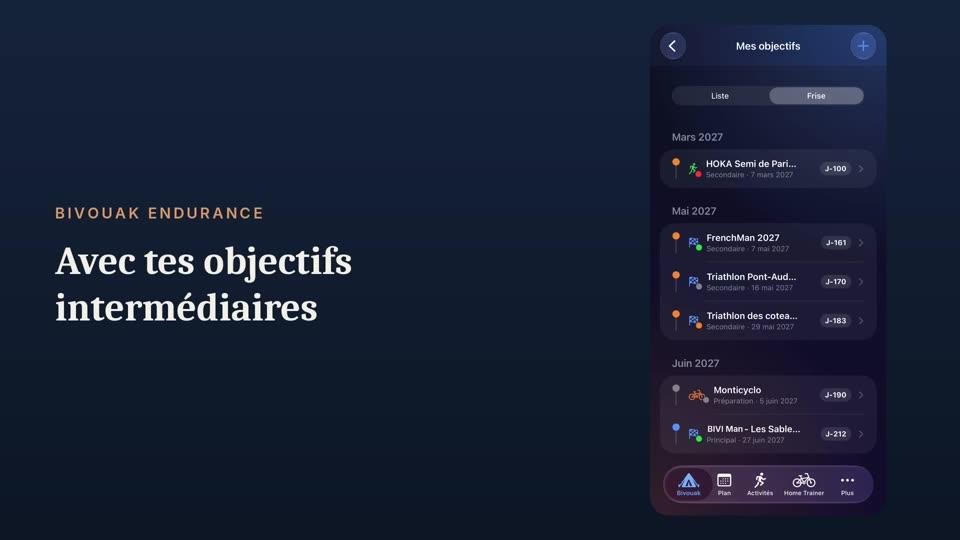
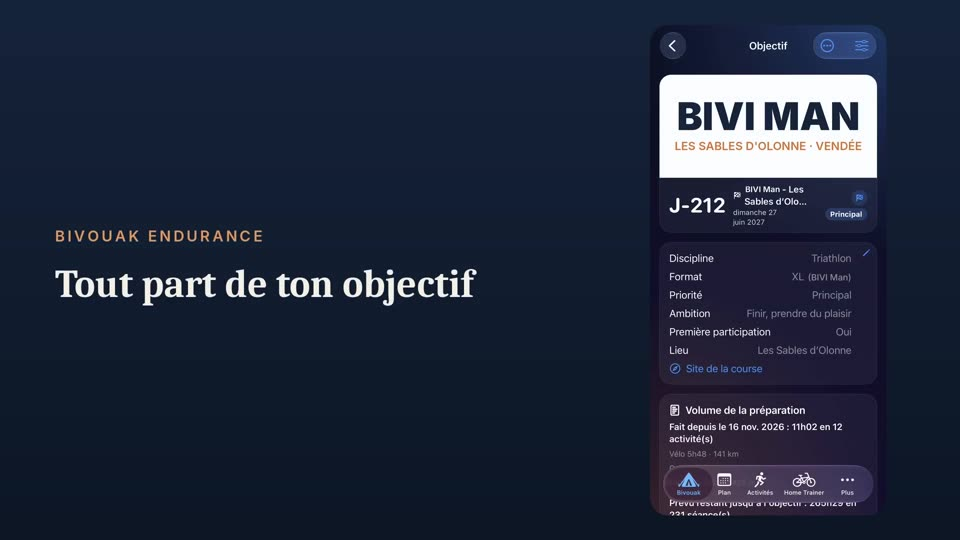
Add files via upload

Changed region(s): [[0.6875, 0.0593, 0.9375, 0.9778], [0.0625, 0.3852, 0.5, 0.5926], [0.8438, 0.7111, 0.9062, 0.7407]]

diff --git a/index.html b/index.html
@@ -16,7 +16,7 @@
 <ul class="sports" aria-label="Natation, vélo, course à pied"><li><svg viewBox="0 0 48 48" width="34" height="34" fill="none" stroke="currentColor" stroke-width="2.4" stroke-linecap="round" stroke-linejoin="round" aria-hidden="true"><circle cx="33" cy="13" r="3.2"/><path d="M8 24l9-5 7 4 5-6"/><path d="M4 33c3 0 3-2.4 6-2.4s3 2.4 6 2.4 3-2.4 6-2.4 3 2.4 6 2.4 3-2.4 6-2.4 3 2.4 6 2.4"/><path d="M4 41c3 0 3-2.4 6-2.4s3 2.4 6 2.4 3-2.4 6-2.4 3 2.4 6 2.4 3-2.4 6-2.4 3 2.4 6 2.4"/></svg><span>Nager</span></li><li><svg viewBox="0 0 48 48" width="34" height="34" fill="none" stroke="currentColor" stroke-width="2.4" stroke-linecap="round" stroke-linejoin="round" aria-hidden="true"><circle cx="11" cy="31" r="7.5"/><circle cx="37" cy="31" r="7.5"/><path d="M11 31l8-14h11l7 14M19 17l7 14h-15M27 11h6"/></svg><span>Pédaler</span></li><li><svg viewBox="0 0 48 48" width="34" height="34" fill="none" stroke="currentColor" stroke-width="2.4" stroke-linecap="round" stroke-linejoin="round" aria-hidden="true"><circle cx="29" cy="9" r="3.2"/><path d="M26 15l-7 7 7 5-3 10M26 15l7 7 7 1M19 22l-8 2M26 27l8 5v8"/></svg><span>Courir</span></li></ul>
 <p class="eyebrow big">Application iPhone pour les sports d’endurance</p>
 <h1>Ton objectif, ta séance, ton jour J.</h1>
-<div class="vmob"><button class="vcard vopen" type="button" aria-haspopup="dialog"><span class="vthumb"><img src="img/poster-paysage.jpg" alt="" width="480" height="270" loading="lazy"><span class="vplay" aria-hidden="true"><svg viewBox="0 0 24 24" width="34" height="34" fill="currentColor"><path d="M8 5.5v13l11-6.5z"/></svg></span></span><span class="vlabel"><strong>Démarrer la vidéo</strong><small>1 minute : ton objectif, ton plan, ton matériel</small></span></button></div>
+<div class="vmob"><button class="vcard vopen" type="button" aria-haspopup="dialog"><span class="vthumb"><img src="img/poster-portrait.jpg" alt="" width="270" height="480" loading="lazy"><span class="vplay" aria-hidden="true"><svg viewBox="0 0 24 24" width="34" height="34" fill="currentColor"><path d="M8 5.5v13l11-6.5z"/></svg></span></span><span class="vlabel"><strong>Démarrer la vidéo</strong><small>1 minute : ton objectif, ton plan, ton matériel</small></span></button></div>
 <p class="lead">Prépare ton objectif d’endurance : un plan, ta séance du jour et ta logistique de course, sans compte ni abonnement. Pour la course à pied, le trail, le vélo, la natation et le triathlon, du premier dossard jusqu’à l’Ironman.</p>
 <ul class="chips"><li>Course à pied</li><li>Trail</li><li>Vélo</li><li>Natation</li><li>Triathlon</li></ul>
 <div class="cta"><a class="store" href="#" aria-disabled="true" title="Bientôt sur l’App Store"><svg viewBox="0 0 24 24" width="26" height="26" fill="currentColor"><path d="M16.4 12.6c0-2.3 1.9-3.4 2-3.5-1.1-1.6-2.8-1.8-3.4-1.8-1.4-.15-2.8.85-3.5.85s-1.8-.8-3-.8c-1.5 0-3 .9-3.800 2.300-1.600 2.800-.4 7 1.200 9.300.8 1.100 1.700 2.400 2.900 2.300 1.200 0 1.600-.7 3-.7s1.800.7 3 .7 2-1.100 2.800-2.200c.9-1.300 1.200-2.500 1.300-2.600-.1 0-2.500-1-2.500-3.800zM14.100 5.800c.6-.8 1.100-1.900.9-3-.9.04-2.100.6-2.700 1.400-.6.700-1.100 1.800-1 2.900 1 .1 2.100-.5 2.800-1.300z"/></svg><span><small>Bientôt sur l’</small>App Store</span></a><a class="ghost" href="fonctionnalites.html">Découvrir</a><a class="ghost beta" href="beta.html">Devenir bêta-testeur</a></div>

diff --git a/style.css b/style.css
@@ -91,6 +91,10 @@ ul.ticks{list-style:none;padding:0;margin:0;columns:2 340px;column-gap:34px}ul.t
 .vclose{position:absolute;top:10px;right:10px;width:38px;height:38px;border-radius:50%;border:1px solid rgba(255,255,255,.4);background:rgba(13,22,38,.75);color:#fff;font-size:18px;cursor:pointer}
 .vend{position:absolute;left:0;right:0;bottom:62px;display:flex;gap:12px;justify-content:center;align-items:center;flex-wrap:wrap}.vend[hidden]{display:none}
 .vend button{background:var(--accent);border-color:var(--accent);padding:10px 20px;font-size:16px}.vend a{color:#fff;font-weight:600;text-decoration:underline}
+.hero-img.home-band{height:min(44.5vw,78vh);min-height:320px;background:var(--bg) center bottom/cover,var(--navy)}
 .vmob{display:none}
-@media(max-width:899px){.home-band{height:42vh;min-height:250px}.home-band .vcard{display:none}.vmob{display:block;margin:22px 0 6px}.vmob .vcard{position:static;transform:none;width:100%;max-width:420px;display:block}.vmob .vthumb{aspect-ratio:16/9}.vmob .vcard:hover,.vmob .vcard:focus-visible{transform:scale(1.01)}}
+@media(max-width:899px){.home-band{display:none}.hero{background:linear-gradient(rgba(13,22,38,.84),rgba(13,22,38,.95)),url(img/hero.jpg) center/cover,var(--navy);padding-top:22px}
+.vmob{display:block;margin:22px 0 8px}.vmob .vcard{position:static;transform:none;width:min(100%,calc(58vh*9/16 + 20px));display:block;margin:0 auto}
+.vmob .vthumb{aspect-ratio:9/16}.vmob .vcard:hover,.vmob .vcard:focus-visible{transform:scale(1.01)}}
 @media(prefers-reduced-motion:reduce){.vcard{transition:none}}
+.vbar button{white-space:nowrap}@media(max-width:520px){.vbar{gap:6px}.vbar button{font-size:12px;padding:8px 10px}}

diff --git a/build.py b/build.py
@@ -171,7 +171,7 @@ feat_short = [
 def promise_cards(items): return "".join(f'<a class="card plink" href="{h}"><div class="ico">{i}</div><h3>{t}</h3><p>{d}</p><span class="more">Découvrir →</span></a>' for i, t, d, h in items)
 def cards(items): return "".join(f'<article class="card"><div class="ico">{i}</div><h3>{t}</h3><p>{d}</p></article>' for i, t, d in items)
 HOME_BAND = '<section class="hero-img home-band" style="--bg:url(img/hero.jpg)" role="img" aria-label="Bivouak Endurance, ciel étoilé au-dessus des montagnes">\n<button class="vcard vopen" type="button" aria-haspopup="dialog"><span class="vthumb"><img src="img/poster-paysage.jpg" alt="" width="480" height="270"><span class="vplay" aria-hidden="true"><svg viewBox="0 0 24 24" width="34" height="34" fill="currentColor"><path d="M8 5.5v13l11-6.5z"/></svg></span></span><span class="vlabel"><strong>Démarrer la vidéo</strong><small>1 minute : ton objectif, ton plan, ton matériel</small></span></button>\n</section>\n'
-MOB = '<div class="vmob"><button class="vcard vopen" type="button" aria-haspopup="dialog"><span class="vthumb"><img src="img/poster-paysage.jpg" alt="" width="480" height="270" loading="lazy"><span class="vplay" aria-hidden="true"><svg viewBox="0 0 24 24" width="34" height="34" fill="currentColor"><path d="M8 5.5v13l11-6.5z"/></svg></span></span><span class="vlabel"><strong>Démarrer la vidéo</strong><small>1 minute : ton objectif, ton plan, ton matériel</small></span></button></div>\n'
+MOB = '<div class="vmob"><button class="vcard vopen" type="button" aria-haspopup="dialog"><span class="vthumb"><img src="img/poster-portrait.jpg" alt="" width="270" height="480" loading="lazy"><span class="vplay" aria-hidden="true"><svg viewBox="0 0 24 24" width="34" height="34" fill="currentColor"><path d="M8 5.5v13l11-6.5z"/></svg></span></span><span class="vlabel"><strong>Démarrer la vidéo</strong><small>1 minute : ton objectif, ton plan, ton matériel</small></span></button></div>\n'
 HERO_DIALOG = '<dialog class="vdlg" id="vdlg" aria-label="Présentation de Bivouak Endurance"><div class="vwrap" id="vwrap" data-fmt="land">\n<video id="hvid" playsinline preload="none" muted aria-label="Présentation de Bivouak Endurance : de ton objectif à ton jour J"></video>\n<div class="vend" id="vend" hidden><button type="button" id="vreplay">↻ Revoir la vidéo</button><a href="fonctionnalites.html">Découvrir les fonctionnalités</a></div>\n<div class="vbar"><button type="button" id="vsound">🔊 Activer le son</button><button type="button" id="vplay">⏸ Pause</button><button type="button" id="vfull">⛶ Plein écran</button></div>\n<button class="vclose" type="button" id="vclose" aria-label="Fermer la vidéo">✕</button></div></dialog>\n<script>\n(function(){\nvar d=document.getElementById(\'vdlg\'),v=document.getElementById(\'hvid\'),w=document.getElementById(\'vwrap\'),end=document.getElementById(\'vend\');\nvar os=document.querySelectorAll(\'.vopen\');if(!d||!v||!os.length)return;\nvar bs=document.getElementById(\'vsound\'),bp=document.getElementById(\'vplay\'),bf=document.getElementById(\'vfull\');\nfunction want(){return(window.innerWidth<900||window.innerHeight>window.innerWidth*1.05)?\'port\':\'land\'}\nfunction setSrc(){var f=want();w.setAttribute(\'data-fmt\',f);var s=f===\'port\'?\'video/bivouak-portrait.mp4\':\'video/bivouak-paysage.mp4\';\n if(v.getAttribute(\'data-s\')!==s){v.setAttribute(\'data-s\',s);v.poster=f===\'port\'?\'img/poster-portrait.jpg\':\'img/poster-paysage.jpg\';v.src=s;v.load()}}\nfunction start(){end.hidden=true;try{v.currentTime=0}catch(e){}var p=v.play();if(p&&p.catch)p.catch(function(){});bp.textContent=\'⏸ Pause\'}\nvar openV=function(){setSrc();v.muted=true;bs.textContent=\'🔊 Activer le son\';if(d.showModal)d.showModal();else d.setAttribute(\'open\',\'\');start()};for(var i=0;i<os.length;i++)os[i].onclick=openV;\nfunction close(){v.pause();if(d.close)d.close();else d.removeAttribute(\'open\')}\ndocument.getElementById(\'vclose\').onclick=close;\nd.addEventListener(\'click\',function(e){if(e.target===d)close()});\nd.addEventListener(\'close\',function(){v.pause()});\nv.addEventListener(\'ended\',function(){end.hidden=false;bp.textContent=\'▶ Lecture\'});\ndocument.getElementById(\'vreplay\').onclick=start;\nv.addEventListener(\'click\',function(){if(v.paused){v.play();bp.textContent=\'⏸ Pause\'}else{v.pause();bp.textContent=\'▶ Lecture\'}});\nbs.onclick=function(){v.muted=!v.muted;bs.textContent=v.muted?\'🔊 Activer le son\':\'🔇 Couper le son\'};\nbp.onclick=function(){if(v.ended){start();return}if(v.paused){v.play();bp.textContent=\'⏸ Pause\'}else{v.pause();bp.textContent=\'▶ Lecture\'}};\nbf.onclick=function(){var t=w.requestFullscreen?w:v;if(t.requestFullscreen)t.requestFullscreen();else if(v.webkitEnterFullscreen)v.webkitEnterFullscreen()};\nwindow.addEventListener(\'resize\',function(){if(!d.open)return;var f=want();if(w.getAttribute(\'data-fmt\')!==f){var t=v.currentTime,was=!v.paused;setSrc();v.addEventListener(\'loadedmetadata\',function h(){v.removeEventListener(\'loadedmetadata\',h);try{v.currentTime=t}catch(e){}if(was)v.play()})}});\n})();\n</script>\n'
 index = f"""
 {HOME_BAND}<section class="hero"><div class="hero-in wrap">
